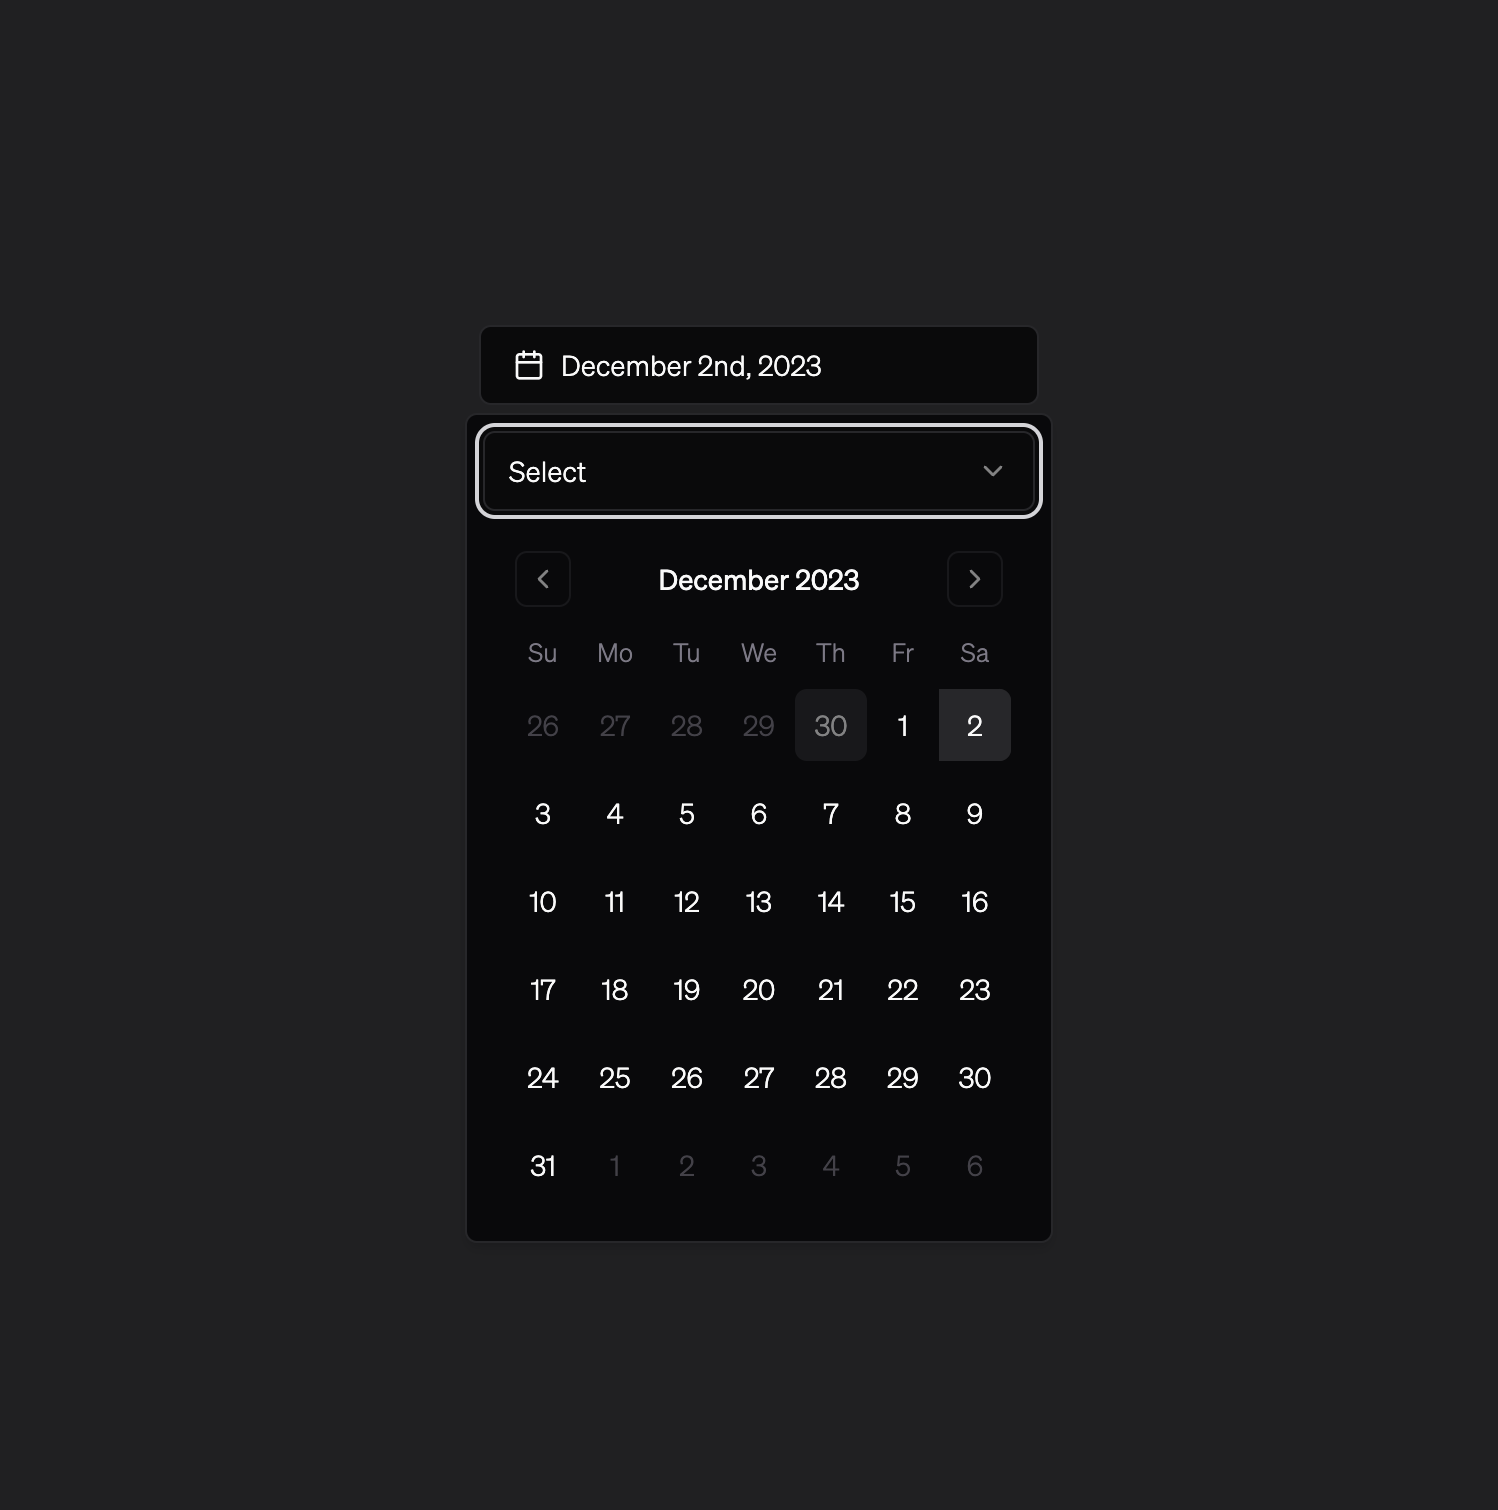
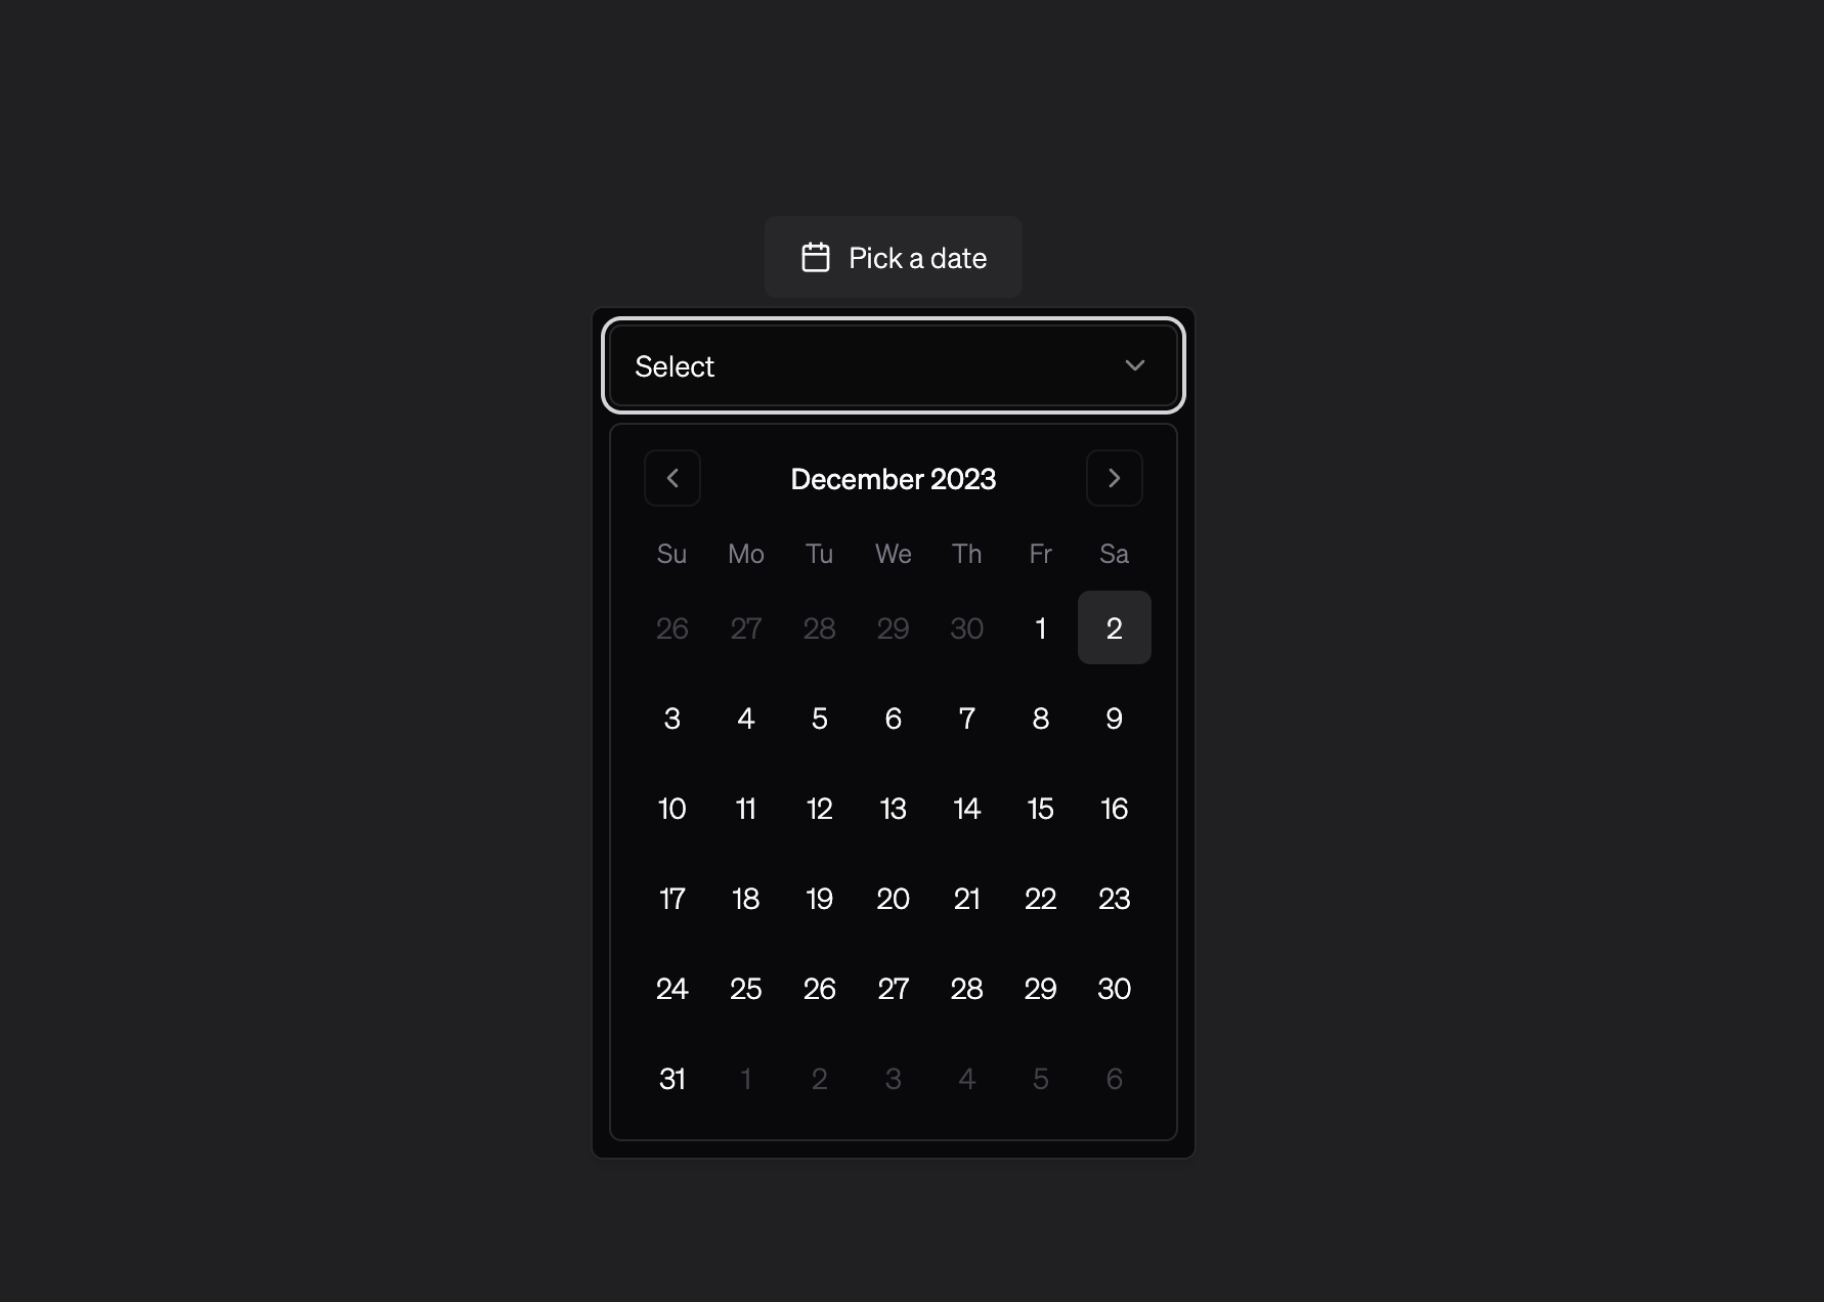
comit

diff --git a/src/app/work/stacksdo/page.tsx b/src/app/work/stacksdo/page.tsx
@@ -21,6 +21,7 @@ import { AddTaskButton } from "@/components/stacksdo/AddTaskButton";
 
 import { Checkbox } from "@/components/ui/checkbox";
 import { Label } from "@/components/ui/label";
+import { useTheme } from "next-themes";
 
 const Page = () => {
   const project = projects.find((project) => project.slug === "stacksdo");
@@ -29,11 +30,9 @@ const Page = () => {
   const ref = useRef(null);
   const isInView = useInView(ref);
 
-  console.log(isInView, "is in view");
-
-  console.log(project.slug);
-
   const [tasks, setTasks] = React.useState<Task[]>([]);
+
+  const { theme: currentTheme } = useTheme();
 
   console.log(tasks);
 
@@ -73,21 +72,19 @@ const Page = () => {
             <div className="flex flex-col gap-2 ">
               <h2 className="text-sm font-semibold">Ideation</h2>
               <p>
-                The digital epidemic of constant stimulation and information
-                overload is a constant in our daily lifes. At the same time, we
-                are constantly seeking the perfect productivity system or task
-                management tool, that assists us being ulitmative productive and
-                get more things done. Honestly, i am also guility in trying out
-                almost any productivity tool on the planet with the intention to
-                get a little bit more done in just 24 hours every day. But is
-                that what we should strive for?
+                In our digital age, we're constantly bombarded with information
+                and stimulation. At the same time, there's an ongoing quest for
+                the perfect productivity system or task management tool, aimed
+                at enhancing productivity and managing our daily 24 hours more
+                efficiently. I admit, I've tried nearly every productivity tool
+                out there, seeking that slight edge in efficiency. But is this
+                relentless pursuit really beneficial?
               </p>
               <p>
-                I decided to create a minimal and distraction free project and
-                task management tool for myself with the intention to proof to
-                myself that the no system on the planet will make me more
-                productive if i cannot get my attention on to the work that
-                really matters.{" "}
+                I decided to develop a minimalistic, distraction-free project
+                and task management tool for personal use. This project was an
+                experiment to prove to myself that no system could enhance my
+                productivity unless I focused on the work that truly mattered.
               </p>
             </div>
           </section>
@@ -99,10 +96,9 @@ const Page = () => {
             <div className="flex flex-col gap-2 ">
               <h2 className="text-sm font-semibold">Planing</h2>
               <p>
-                After figuring out what basic features a task management app
-                really needs. I sit down to plan how i can structure codebase of
-                the app. To create a mental model for myself i started creating
-                a visualisation of the app dataflow.
+                First, I identified the essential features needed in a task
+                management app. To structure my thoughts and create a coherent
+                plan, I began with a visualization of the app's data flow.
               </p>
             </div>
             <div>
@@ -168,7 +164,7 @@ const Page = () => {
                   <UserAuthForm />
                 </div>
                 <p className="text-muted-foreground text-sm mt-2">
-                  Authentication using Github OAuth via Next Auth
+                  Authentication using GitHub OAuth via NextAuth.
                 </p>
               </div>
 
@@ -189,9 +185,11 @@ const Page = () => {
           >
             <div className="">
               <p>
-                My goal was to reduce the application to the really neccessary
-                features but also to create an easy usable interface for
-                advanced user who are familiar to keyboard shortcuts.
+                The aim was to strip the application down to only the necessary
+                features while crafting an intuitive interface for advanced
+                users familiar with keyboard shortcuts. I focused on direct user
+                feedback combined with minimalistic yet appealing animations and
+                interactions.
               </p>
             </div>
             <div className="w-full grid  md:grid-cols-2 gap-4 flex-col md:flex-row">
@@ -226,17 +224,23 @@ const Page = () => {
                   </motion.div>
                 </div>
                 <p className="text-muted-foreground text-sm mt-2">
-                  Keyboard Shortcuts and calendar day selector
+                  Keyboard Shortcuts and Calendar Day Selector
                 </p>
               </div>
 
               {/* Code Component*/}
               <div className="bg-muted h-72 w-full flex items-center justify-center overflow-hidden">
                 <Image
-                  src={"/stacksdo/stacksdo-calendar.png"}
-                  width={1500}
-                  height={1500}
+                  src={
+                    currentTheme === "dark"
+                      ? "/stacksdo/stacksdo-calendar.png"
+                      : "/stacksdo/stacksdo-calendar-neg.png"
+                  }
+                  width={1800}
+                  height={1800}
                   alt="stacksdo-authcode"
+                  quality={100}
+                  className=" scale-[100%]  md:scale-[130%]"
                 ></Image>
               </div>
             </div>
@@ -252,10 +256,10 @@ const Page = () => {
                 yourself:
               </p>
             </div>
-            <div className="w-full grid gap-4 flex-col md:flex-row">
+            <div className="w-full bg-muted grid gap-4 flex-col md:flex-row">
               {/* User auth Form */}
               <div className="w-full">
-                <div className="py-8 px-6  md:px-10 bg-background border-[1px] gap-8 flex flex-col h-fit    md:flex-row justify-center relative">
+                <div className="py-8 px-6  md:px-10  gap-8 flex flex-col h-fit    md:flex-row justify-center relative">
                   <AddTaskButton setTask={setTasks} />
                   <div className="w-full flex flex-col gap-2">
                     <h3 className="font-semibold mb-2 w-full">Your Tasks</h3>
@@ -274,6 +278,88 @@ const Page = () => {
                   </div>
                 </div>
               </div>
+            </div>
+          </section>
+          <section
+            id="stacksdo-result-II"
+            className="col-start-2 mt-16 flex flex-col gap-8"
+          >
+            <div className="flex flex-col gap-2 ">
+              <h2 className="text-sm font-semibold">Result</h2>
+              <p>
+                Stacksdo is an amazing tool for managing task and projects
+                without any unnessary distractions for the user. It focuses on
+                the foundatinal elements and still provides an amazing user
+                experience throught consistent user feedback, a minimal design
+                and great performance.
+                <Link
+                  href="https://nextjs.org/"
+                  className=" underline hover:text-muted-foreground"
+                >
+                  NEXTjs
+                </Link>
+                ,{" "}
+                <Link
+                  href="https://www.typescriptlang.org/"
+                  className=" underline hover:text-muted-foreground"
+                >
+                  Typescript
+                </Link>{" "}
+                with{" "}
+                <Link
+                  href="https://tailwindcss.com/"
+                  className=" underline hover:text-muted-foreground"
+                >
+                  Tailwind CSS
+                </Link>{" "}
+                for styling,{" "}
+                <Link
+                  href="https://planetscale.com/"
+                  className=" underline hover:text-muted-foreground"
+                >
+                  Planetscale
+                </Link>{" "}
+                as the database and Prisma ORM for communication with the
+                database.
+              </p>
+            </div>
+            <div className="w-full bg-muted py-6 px-6 flex h-[30] items-center justify-center overflow-hidden">
+              {currentTheme === "dark" ? (
+                <Image
+                  src={"/stacksdo/Stackdo-image-1.png"}
+                  className="shadow-2xl relative"
+                  width={550}
+                  height={1080}
+                  alt="stackdo-image-1"
+                ></Image>
+              ) : (
+                <Image
+                  src={"/stacksdo/Stackdo-image-1-neg.png"}
+                  className="shadow-2xl relative"
+                  width={550}
+                  height={1080}
+                  alt="stackdo-image-1"
+                ></Image>
+              )}
+            </div>
+            <div className="w-full bg-muted py-6 px-6 flex h-[30] items-center justify-center overflow-hidden relative">
+              {currentTheme === "dark" ? (
+                <Image
+                  src={"/stacksdo/stackdo-image-2.png"}
+                  className="shadow-lg  relative bottom-[-100px] right-[-150px] scale-[130%]"
+                  width={900}
+                  height={1080}
+                  alt="stackdo-image-1"
+                ></Image>
+              ) : (
+                <Image
+                  src={"/stacksdo/stackdo-image-2-neg.png"}
+                  className="shadow-lg  relative bottom-[-100px] right-[-150px] scale-[130%]"
+                  width={900}
+                  height={1080}
+                  alt="stackdo-image-1"
+                ></Image>
+              )}
             </div>
           </section>
         </div>

diff --git a/src/components/datepicker.tsx b/src/components/datepicker.tsx
@@ -1,0 +1,79 @@
+"use client";
+
+import * as React from "react";
+import { addDays, format, set } from "date-fns";
+import { Calendar as CalendarIcon } from "lucide-react";
+
+import { cn } from "@/lib/utils";
+import { Button } from "@/components/ui/button";
+import { Calendar } from "@/components/ui/calendar";
+import {
+  Popover,
+  PopoverContent,
+  PopoverTrigger,
+} from "@/components/ui/popover";
+import {
+  Select,
+  SelectContent,
+  SelectItem,
+  SelectTrigger,
+  SelectValue,
+} from "@/components/ui/select";
+interface ProjectdatepickerProps {
+  formHandler?: (e: any) => void;
+  dueDate?: Date;
+}
+
+export function Projectdatepicker({
+  formHandler,
+  dueDate,
+}: ProjectdatepickerProps) {
+  const [date, setDate] = React.useState<Date | null>(dueDate || null);
+
+  return (
+    <Popover>
+      <PopoverTrigger asChild>
+        <Button
+          variant={"outline"}
+          className={cn(
+            "w-[280px] justify-start text-left font-normal",
+            !date && "text-muted-foreground"
+          )}
+        >
+          <CalendarIcon className="mr-2 h-4 w-4" />
+          {date ? format(date, "PPP") : <span>Pick a date</span>}
+        </Button>
+      </PopoverTrigger>
+      <PopoverContent className="flex w-auto flex-col space-y-2 p-2">
+        <Select
+          onValueChange={(value) => {
+            setDate(addDays(new Date(), parseInt(value)));
+            {
+              formHandler &&
+                formHandler(new Date(addDays(new Date(), parseInt(value))));
+            }
+          }}
+        >
+          <SelectTrigger>
+            <SelectValue placeholder="Select" />
+          </SelectTrigger>
+          <SelectContent position="popper">
+            <SelectItem value="0">Today</SelectItem>
+            <SelectItem value="1">Tomorrow</SelectItem>
+            <SelectItem value="3">In 3 days</SelectItem>
+            <SelectItem value="7">In a week</SelectItem>
+          </SelectContent>
+        </Select>
+        <div className="rounded-md border">
+          <Calendar
+            mode="single"
+            selected={date}
+            onSelect={(selectedDate) => {
+              setDate(selectedDate);
+            }}
+          />
+        </div>
+      </PopoverContent>
+    </Popover>
+  );
+}

diff --git a/src/components/Projectcard.tsx b/src/components/Projectcard.tsx
@@ -1,3 +1,4 @@
+"use client";
 import React from "react";
 import { Badge } from "./ui/badge";
 import Image from "next/image";
@@ -5,8 +6,10 @@ import { ProjectType } from "@/app/utils/types";
 import { describe } from "node:test";
 import { format } from "date-fns";
 import Link from "next/link";
+import { useTheme } from "next-themes";
 
 const Projectcard = ({ project }: { project: ProjectType }) => {
+  const { theme } = useTheme();
   return (
     <Link className="col-start-2 mb-24 " href={`work/${project.slug}`}>
       <div className="flex flex-col gap-6 item-center justify-between w-full ">
@@ -23,10 +26,12 @@ const Projectcard = ({ project }: { project: ProjectType }) => {
         {/*Image*/}
       </div>
       {/*Image*/}
-      <div className="mt-8">
+      <div className="mt-8 p-10 bg-muted">
         <Image
-          src={project.image}
-          className="rounded-lg"
+          src={
+            theme === "dark" ? project.imageDarkmode : project.imageLightmode
+          }
+          className="rounded-lg shadow-lg"
           width={2605}
           height={1618}
           alt="premium-room-design-cover-image"

diff --git a/src/lib/data.ts b/src/lib/data.ts
@@ -41,7 +41,8 @@ export const projects = [
     year: new Date("2022-06-01"),
     type: "Side Project",
     link: "",
-    image: "/Premium-room-design.png",
+    imageDarkmode: "/Premium-room-design.png",
+    imageLightmode: "/Premium-room-design.png",
     description:
       "Esse adipisicing dolore ad pariatur ipsum ullamco duis aliqua do ipsum id proident amet dolor consequat.",
   },
@@ -52,7 +53,8 @@ export const projects = [
     year: new Date("2023-06-01"),
     type: "Side Project",
     link: "",
-    image: "/Premium-room-design.png",
+    imageDarkmode: "/Stacksdo/stackdo-image-1.png",
+    imageLightmode: "/Stacksdo/stackdo-image-1-neg.png",
     description:
       "Stacksdo is a distraction free task management tool in a world full of constant overstimulation",
     techStack: [{ title: "NextJS", icon: "/nextjs.png" }],

diff --git a/src/app/crafts/page.tsx b/src/app/crafts/page.tsx
@@ -1,5 +1,6 @@
 import Navbar from "@/components/Navbar";
 import Topbar from "@/components/Topbar";
+import { Projectdatepicker } from "@/components/datepicker";
 
 import React from "react";
 
@@ -7,7 +8,9 @@ const Page = () => {
   return (
     <div className="container">
       <h1 className="text-4xl font-medium">Crafts</h1>
-      <div className="bg-muted  h-72  w-full flex items-center justify-center overflow-hidden h-screen"></div>
+      <div className="bg-muted  h-72  w-full flex items-center justify-center overflow-hidden h-screen">
+        <Projectdatepicker />
+      </div>
     </div>
   );
 };

diff --git a/src/app/utils/types/index.ts b/src/app/utils/types/index.ts
@@ -16,6 +16,7 @@ export type ProjectType = {
   year: Date;
   type: string;
   link: string | null;
-  image: string;
+  imageDarkmode: string;
+  imageLightmode: string;
   description: string;
 };
